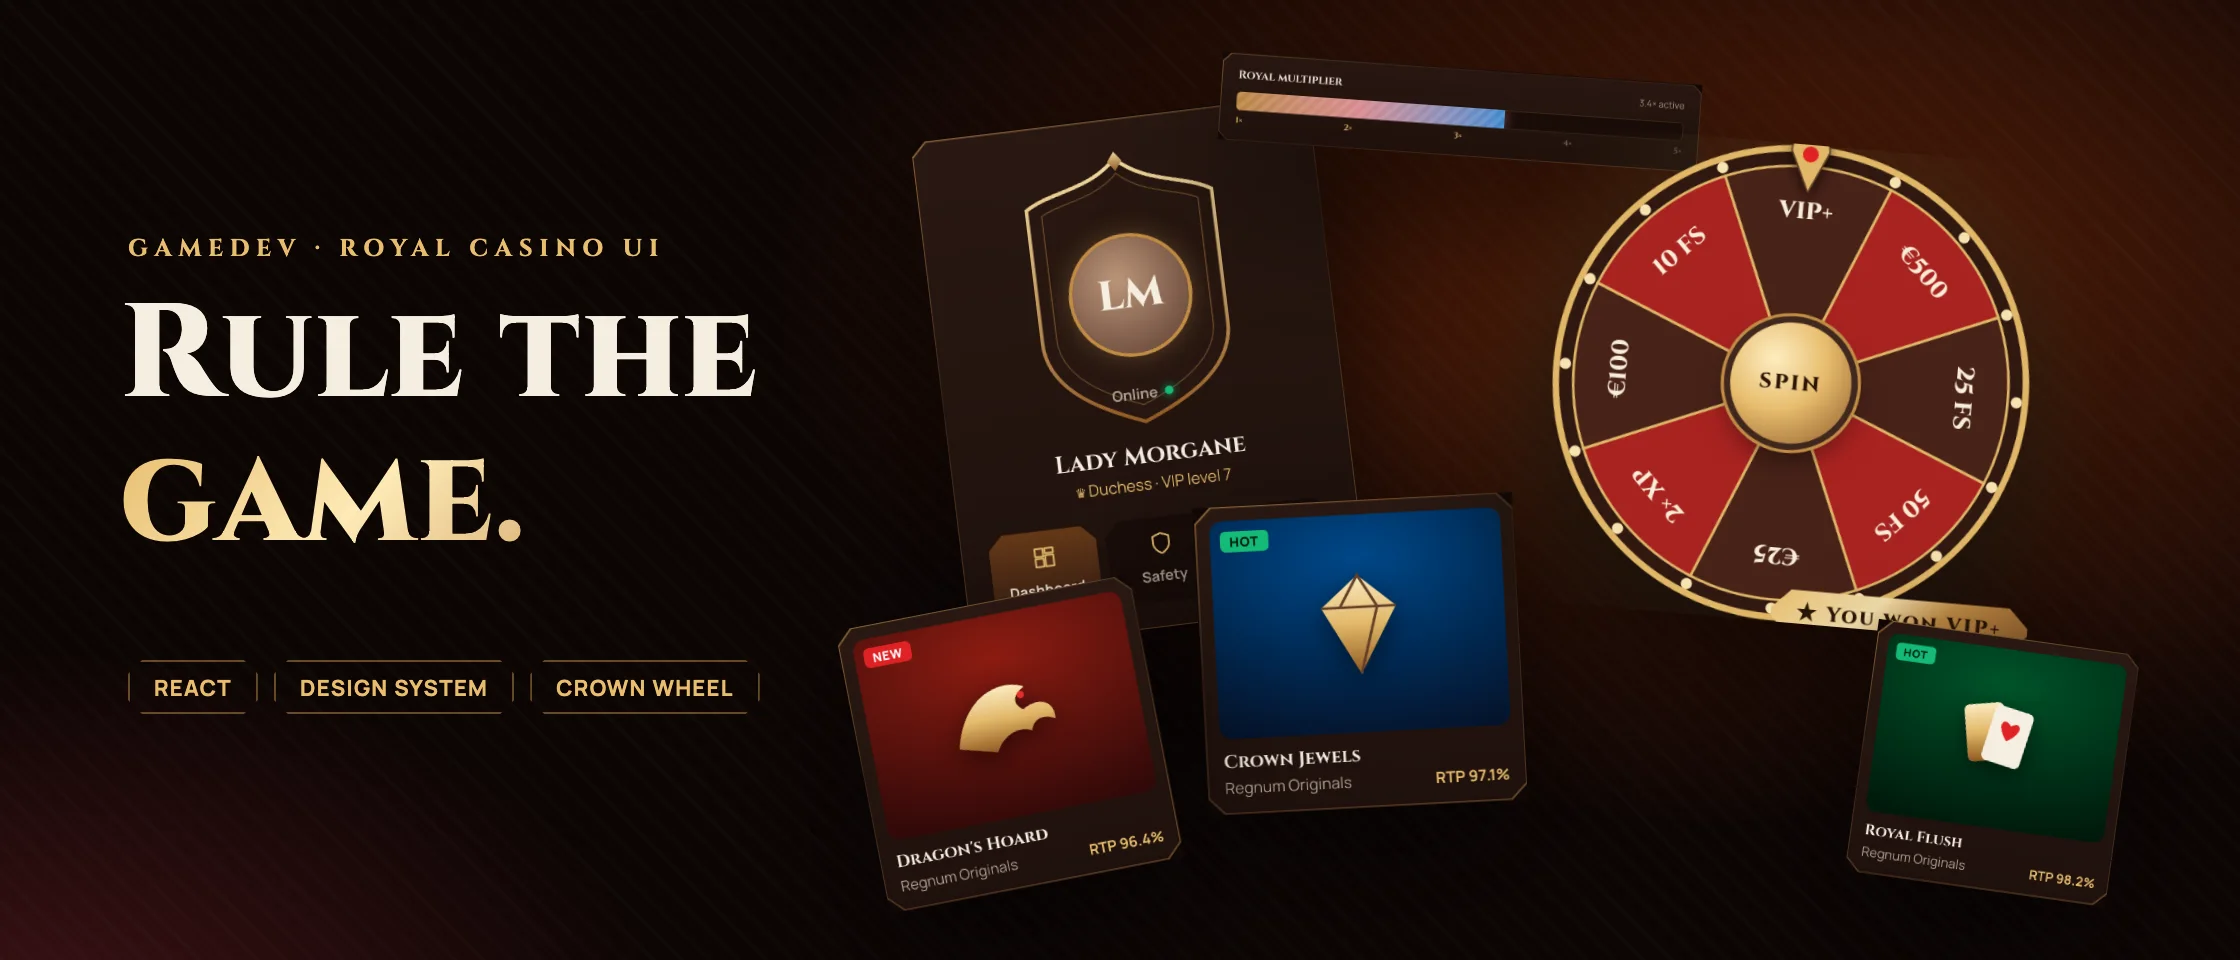
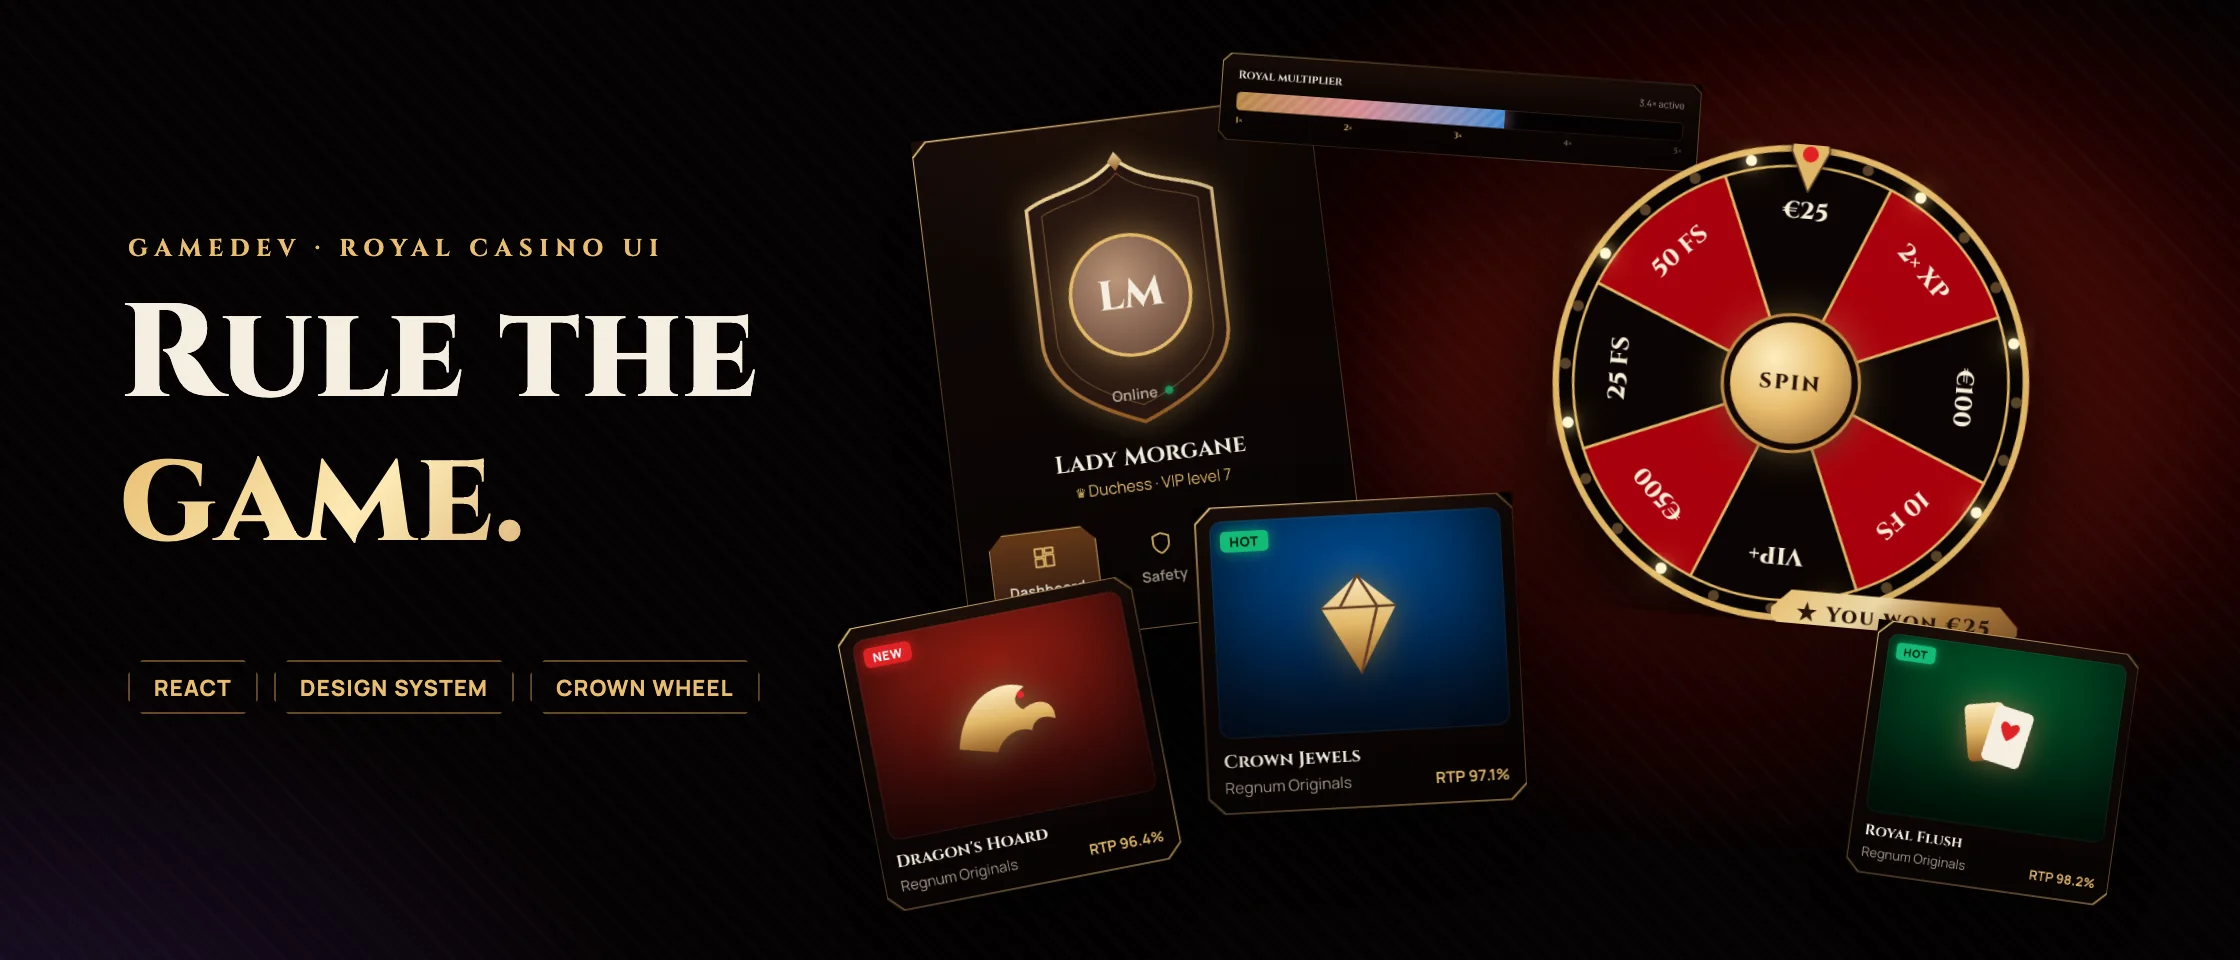
feat(regnum): 'expensive night' pass — near-black instead of brown, glows, light sweeps, wheel chase lights, gold dust
Elijah: 'looks like an old sofa'. Palette: cocoa-brown → near-black panels (oklch 8–15%), jewel-tone ambient light
(ruby/gold behind the hero, amethyst, emerald). Glows via an outer wrapper (a drop-shadow on the notched panel itself
gets clipped by its own clip-path): gold halo on frames, lit hero/profile, sheen sweeping over the hero, light
running across gem buttons, glowing badges, gold-lit numbers and headings, moving stripes on the multiplier,
pulsing avatar halo. Crown Wheel: black/ruby sectors, 24 bulbs with a chase light (faster while spinning).
Rising gold dust in the background. Covers rebuilt from the new look.

Claude-Session: https://claude.ai/code/session_01LctZPao52rXfXx1JX6znjV

diff --git a/public/demos/regnum/index.html b/public/demos/regnum/index.html
@@ -24,8 +24,8 @@
 /* Regnum — королевская дизайн-система кейса (своя, не общая с другими кейсами: README в ../_shared).
    Кожа: шоколадно-чёрный, золото, рубин→огонь на действиях, изумруд на «новом». Механика — ../_shared/motion.js. */
 :root{
-  --bg: oklch(14% 0.018 35);        --bg-2: oklch(17% 0.022 35);
-  --panel: oklch(19.5% 0.026 38);   --panel-2: oklch(23% 0.03 40);   --panel-hi: oklch(27% 0.035 42);
+  --bg: oklch(8.5% 0.012 30);       --bg-2: oklch(12% 0.014 32);
+  --panel: oklch(11.5% 0.012 35);   --panel-2: oklch(15% 0.016 38);  --panel-hi: oklch(20% 0.02 40);
   --ink: oklch(95% 0.02 85);        --muted: oklch(72% 0.03 70);     --faint: oklch(52% 0.03 60);
   --gold: oklch(82% 0.11 82);       --gold-2: oklch(68% 0.11 72);    --gold-deep: oklch(52% 0.09 62);
   --ruby: oklch(58% 0.22 27);       --fire: oklch(69% 0.2 45);       --rose: oklch(74% 0.1 15);
@@ -41,9 +41,13 @@ html{color-scheme:dark}
 body{margin:0; background:var(--bg); color:var(--ink); font:15px/1.5 var(--f-body); -webkit-font-smoothing:antialiased; overflow-x:hidden}
 body::before{content:''; position:fixed; inset:0; pointer-events:none; z-index:0;
   background:
-    radial-gradient(70vmax 45vmax at 85% -10%, oklch(30% 0.08 40 / .55), transparent 60%),
-    radial-gradient(50vmax 40vmax at -10% 110%, oklch(26% 0.07 20 / .5), transparent 60%),
-    repeating-linear-gradient(45deg, oklch(100% 0 0 / .012) 0 2px, transparent 2px 9px);}
+    radial-gradient(42vmax 30vmax at 70% 4%, oklch(55% 0.2 30 / .22), transparent 70%),
+    radial-gradient(36vmax 26vmax at 92% 22%, oklch(78% 0.13 80 / .14), transparent 70%),
+    radial-gradient(40vmax 30vmax at 4% 92%, oklch(50% 0.16 300 / .14), transparent 70%),
+    radial-gradient(34vmax 24vmax at 60% 100%, oklch(55% 0.13 160 / .10), transparent 70%);}
+body::after{content:''; position:fixed; inset:0; pointer-events:none; z-index:0; opacity:.5;
+  background-image:radial-gradient(oklch(100% 0 0 / .05) 1px, transparent 1.2px); background-size:26px 26px;
+  mask-image:radial-gradient(70% 70% at 50% 30%, #000, transparent)}
 a{color:inherit; text-decoration:none}
 button{font:inherit; color:inherit; background:none; border:0; cursor:pointer}
 #root{position:relative; z-index:1}
@@ -198,6 +202,67 @@ footer.foot{max-width:1360px; margin:0 auto; padding:0 22px 40px; display:flex; 
   .games{grid-template-columns:repeat(2,1fr)} .wallets{grid-template-columns:1fr} .stats{grid-template-columns:1fr 1fr}
   .stats .stat:first-child{grid-column:1 / -1} .logo{font-size:24px} .back{display:none}
 }
+
+/* ═════ v2 — «дорогая ночь»: темнее, свечения, блики (слово Элайджи: «как старый диван» → круто) ═════ */
+.ornw{position:relative; filter:drop-shadow(0 0 1px oklch(82% 0.11 82 / .35)) drop-shadow(0 10px 30px oklch(0% 0 0 / .7))}
+.ornw.lit{filter:drop-shadow(0 0 14px oklch(82% 0.11 82 / .22)) drop-shadow(0 0 40px oklch(60% 0.2 30 / .18)) drop-shadow(0 14px 34px oklch(0% 0 0 / .75))}
+.orn{background:linear-gradient(160deg, oklch(86% 0.1 85), oklch(42% 0.06 60) 32%, oklch(28% 0.03 50) 55%, oklch(72% 0.1 78) 100%)}
+.orn > .in{background:radial-gradient(120% 80% at 50% -10%, oklch(20% 0.03 45 / .9), transparent 60%), linear-gradient(180deg, var(--panel-2), var(--panel))}
+.orn.sheen::after{content:''; position:absolute; inset:0; pointer-events:none; clip-path:var(--notch);
+  background:linear-gradient(105deg, transparent 40%, oklch(95% 0.06 90 / .16) 50%, transparent 60%) no-repeat; background-size:250% 100%;
+  animation:sheen 6s var(--ease) infinite}
+@keyframes sheen{0%{background-position:150% 0} 55%,100%{background-position:-60% 0}}
+.logo{filter:drop-shadow(0 0 18px oklch(82% 0.11 82 / .35)) drop-shadow(0 2px 0 oklch(20% 0.04 40))}
+.gem{filter:drop-shadow(0 0 14px oklch(65% 0.22 35 / .55)) drop-shadow(0 6px 14px oklch(0% 0 0 / .6)); transition:filter .3s var(--ease)}
+.gem:hover{filter:drop-shadow(0 0 24px oklch(70% 0.22 40 / .85)) drop-shadow(0 6px 14px oklch(0% 0 0 / .6))}
+.gem.gold{filter:drop-shadow(0 0 14px oklch(82% 0.11 82 / .45))}
+.gem > span{position:relative; overflow:hidden}
+.gem > span::after{content:''; position:absolute; inset:0; background:linear-gradient(105deg, transparent 35%, oklch(100% 0 0 / .45) 50%, transparent 65%); transform:translateX(-120%); animation:gemsheen 3.6s var(--ease) infinite}
+@keyframes gemsheen{0%,55%{transform:translateX(-120%)} 85%,100%{transform:translateX(120%)}}
+.gem::before,.gem::after{box-shadow:0 0 10px oklch(80% 0.15 350 / .9)}
+.seg button.on{box-shadow:0 0 18px oklch(82% 0.11 82 / .45)}
+.nav a.on{background:linear-gradient(90deg, oklch(42% 0.11 60 / .55), transparent); box-shadow:inset 3px 0 0 var(--gold), inset 0 0 24px oklch(82% 0.11 82 / .08)}
+.nav a.on .ic{box-shadow:inset 0 0 0 1px var(--gold), 0 0 14px oklch(82% 0.11 82 / .55)}
+.badge{box-shadow:0 0 12px oklch(58% 0.22 27 / .8)} .badge.hot{box-shadow:0 0 12px oklch(70% 0.16 158 / .75)}
+.hero .in{background:
+  radial-gradient(60% 90% at 82% 40%, oklch(45% 0.2 30 / .45), transparent 65%),
+  radial-gradient(40% 60% at 82% 40%, oklch(80% 0.12 80 / .18), transparent 70%),
+  radial-gradient(70% 100% at 0% 0%, oklch(25% 0.06 300 / .35), transparent 60%), var(--panel)}
+.hero h1{text-shadow:0 0 30px oklch(82% 0.11 82 / .18)}
+.hero h1 b{filter:drop-shadow(0 0 16px oklch(82% 0.11 82 / .5))}
+.stat .v{filter:drop-shadow(0 0 12px oklch(82% 0.11 82 / .45))}
+.stat .d{text-shadow:0 0 10px oklch(70% 0.16 158 / .6)}
+.fill{box-shadow:0 0 22px oklch(74% 0.12 15 / .7), 0 0 40px oklch(64% 0.14 250 / .45)}
+.fill::after{animation:stripes 1.2s linear infinite; background-size:17px 17px}
+@keyframes stripes{to{background-position:17px 0}}
+.track{background:oklch(7% 0.01 30)}
+.vip .bar i{box-shadow:0 0 14px oklch(82% 0.11 82 / .7)}
+.ava{animation:halo 3.2s ease-in-out infinite}
+@keyframes halo{0%,100%{box-shadow:0 0 0 3px var(--gold-2), 0 0 22px oklch(82% 0.11 82 / .35)} 50%{box-shadow:0 0 0 3px var(--gold), 0 0 40px oklch(82% 0.11 82 / .7)}}
+.frame svg{filter:drop-shadow(0 0 14px oklch(82% 0.11 82 / .35))}
+.online::after{animation:blink 1.6s ease-in-out infinite} @keyframes blink{50%{opacity:.35}}
+.ptabs button.on{box-shadow:inset 0 0 0 1px oklch(82% 0.11 82 / .6), 0 0 18px oklch(82% 0.11 82 / .25)}
+.wallet .glow{opacity:.55; filter:blur(36px)}
+.wallet .coin{box-shadow:0 0 18px currentColor}
+.art{box-shadow:inset 0 0 0 1px oklch(100% 0 0 / .06), inset 0 -40px 60px oklch(0% 0 0 / .45)}
+.art svg{filter:drop-shadow(0 0 14px oklch(82% 0.11 82 / .55)) drop-shadow(0 6px 10px oklch(0% 0 0 / .6)); transition:transform .5s var(--ease)}
+.game:hover .art svg{transform:scale(1.08) translateY(-3px)}
+.game .ornw{transition:filter .35s var(--ease)}
+.game:hover .ornw{filter:drop-shadow(0 0 16px oklch(82% 0.11 82 / .45)) drop-shadow(0 14px 30px oklch(0% 0 0 / .75))}
+.sec-head h2{background:var(--gold-grad); -webkit-background-clip:text; background-clip:text; color:transparent; filter:drop-shadow(0 0 12px oklch(82% 0.11 82 / .35))}
+.diamond{box-shadow:0 0 12px oklch(82% 0.11 82 / .9)}
+.ticker .t b{text-shadow:0 0 10px oklch(82% 0.11 82 / .6)}
+/* колесо: светящийся обод и бегущие огни */
+.wheel{filter:drop-shadow(0 0 30px oklch(82% 0.11 82 / .35)) drop-shadow(0 0 70px oklch(60% 0.22 30 / .35)) drop-shadow(0 18px 30px oklch(0% 0 0 / .7))}
+.bulb{fill:oklch(40% 0.05 70); transition:fill .12s}
+.bulb.on{fill:oklch(98% 0.05 92); filter:drop-shadow(0 0 3px oklch(95% 0.1 88)) drop-shadow(0 0 7px oklch(85% 0.14 80))}
+.spin-btn{box-shadow:0 0 0 4px oklch(15% 0.02 40), 0 0 0 6px var(--gold-2), 0 0 30px oklch(82% 0.11 82 / .6), 0 8px 18px oklch(0% 0 0 / .6)}
+.win{filter:drop-shadow(0 0 16px oklch(82% 0.11 82 / .7))}
+/* золотая пыль */
+.dust{position:fixed; inset:0; pointer-events:none; z-index:0; overflow:hidden}
+.dust i{position:absolute; bottom:-10px; width:3px; height:3px; border-radius:50%; background:oklch(90% 0.1 85); box-shadow:0 0 8px oklch(85% 0.12 82);
+  opacity:0; animation:rise linear infinite}
+@keyframes rise{0%{transform:translateY(0) translateX(0); opacity:0} 10%{opacity:.8} 90%{opacity:.5} 100%{transform:translateY(-105vh) translateX(30px); opacity:0}}
 @media (prefers-reduced-motion: reduce){ *{animation:none !important; transition:none !important} }
 </style>
 </head>
@@ -255,7 +320,7 @@ const GAMES = [
 const art = (g) => ({ background: `radial-gradient(120% 90% at 50% 20%, ${g.bg[0]}, ${g.bg[1]})` });
 
 // ── компоненты ──
-const Orn = ({ className = '', flat, children, style }) => html`<div class=${'orn ' + (flat ? 'flat ' : '') + className} style=${style}><div class="in">${children}</div></div>`;
+const Orn = ({ className = '', flat, lit, sheen, children, style }) => html`<div class=${'ornw ' + (lit ? 'lit ' : '') + className} style=${style}><div class=${'orn' + (flat ? ' flat' : '') + (sheen ? ' sheen' : '')}><div class="in">${children}</div></div></div>`;
 
 function Top() {
   const [tab, setTab] = useState('casino');
@@ -286,6 +351,8 @@ const PRIZES = ['50 FS', '€25', '2× XP', '€100', '10 FS', 'VIP+', '€500',
 function CrownWheel() {
   const ref = useRef(null), rot = useRef(0);
   const [spinning, setSpinning] = useState(false), [win, setWin] = useState(null);
+  const [chase, setChase] = useState(0);                     // бегущие огни по ободу: быстрее, пока крутится
+  React.useEffect(() => { const t = setInterval(() => setChase((c) => (c + 1) % 3), spinning ? 70 : 260); return () => clearInterval(t); }, [spinning]);
   const seg = 360 / PRIZES.length;
   function spin() {
     if (spinning) return;
@@ -299,21 +366,21 @@ function CrownWheel() {
     const a0 = (i * seg - 90) * Math.PI / 180, a1 = ((i + 1) * seg - 90) * Math.PI / 180;
     const d = `M110 110 L${110 + R * Math.cos(a0)} ${110 + R * Math.sin(a0)} A${R} ${R} 0 0 1 ${110 + R * Math.cos(a1)} ${110 + R * Math.sin(a1)} Z`;
     const mid = (i + 0.5) * seg;
-    return html`<g key=${p}><path d=${d} fill=${i % 2 ? 'oklch(30% 0.06 35)' : 'oklch(48% 0.17 27)'} stroke="oklch(80% 0.11 82)" stroke-width="1.2"/>
+    return html`<g key=${p}><path d=${d} fill=${i % 2 ? 'oklch(12% 0.015 30)' : 'oklch(46% 0.19 27)'} stroke="oklch(80% 0.11 82)" stroke-width="1.2"/>
       <text x="110" y="34" transform=${`rotate(${mid} 110 110)`} text-anchor="middle" font-family="Cinzel" font-weight="800" font-size="11" fill="oklch(95% 0.03 85)">${p}</text></g>`;
   });
   return html`<div class="wheel-wrap">
     <svg class="pointer" viewBox="0 0 30 36"><path d="M15 36 L3 10 A12 12 0 1 1 27 10 Z" fill="oklch(80% 0.11 82)" stroke="oklch(40% 0.06 55)"/><circle cx="15" cy="12" r="5" fill="oklch(58% 0.22 27)"/></svg>
-    <svg class="wheel" viewBox="0 0 220 220"><circle cx="110" cy="110" r="108" fill="oklch(24% 0.04 40)" stroke="oklch(80% 0.11 82)" stroke-width="3"/>
+    <svg class="wheel" viewBox="0 0 220 220"><circle cx="110" cy="110" r="108" fill="oklch(10% 0.012 30)" stroke="oklch(80% 0.11 82)" stroke-width="3"/>
       <g ref=${ref} style=${{ transformOrigin: '110px 110px' }}>${sectors}</g>
-      ${Array.from({ length: 16 }, (_, i) => { const a = i * 22.5 * Math.PI / 180; return html`<circle key=${i} cx=${110 + 104 * Math.cos(a)} cy=${110 + 104 * Math.sin(a)} r="2.6" fill="oklch(92% 0.07 90)"/>`; })}</svg>
+      ${Array.from({ length: 24 }, (_, i) => { const a = i * 15 * Math.PI / 180; return html`<circle key=${i} class=${'bulb' + ((i + chase) % 3 === 0 ? ' on' : '')} cx=${110 + 104 * Math.cos(a)} cy=${110 + 104 * Math.sin(a)} r="2.6"/>`; })}</svg>
     <button class="spin-btn" onClick=${spin} disabled=${spinning}>${spinning ? '…' : 'SPIN'}</button>
     ${win && html`<${motion.div} class="win" initial=${{ opacity: 0, y: 8, scale: 0.9 }} animate=${{ opacity: 1, y: 0, scale: 1 }}>★ You won ${win}<//>`}
   </div>`;
 }
 
 function Hero() {
-  return html`<${Orn} className="hero"><div>
+  return html`<${Orn} className="hero" lit sheen><div>
       <div class="eyebrow">Welcome to the court</div>
       <h1>100% up to <b>€500</b><br/>+ 200 free spins</h1>
       <p>Claim the throne bonus on your first deposit — and spin the Crown Wheel for one more royal gift.</p>
@@ -327,7 +394,7 @@ const Ticker = () => html`<${VelocityMarquee} className="ticker" baseSpeed=${3.2
 
 function Profile() {
   const [tab, setTab] = useState('dash');
-  return html`<${Orn} className="profile">
+  return html`<${Orn} className="profile" lit>
     <div class="frame"><svg viewBox="0 0 190 230"><defs><linearGradient id="fg" x1="0" y1="0" x2="0" y2="1"><stop offset="0" stop-color="oklch(90% 0.08 88)"/><stop offset="1" stop-color="oklch(52% 0.1 62)"/></linearGradient></defs>
       <path d="M95 6 C 120 30, 150 26, 172 40 V150 C 172 190, 130 210, 95 224 C 60 210, 18 190, 18 150 V40 C 40 26, 70 30, 95 6 Z" fill="oklch(22% 0.03 38)" stroke="url(#fg)" stroke-width="3"/>
       <path d="M95 18 C 116 38, 142 36, 160 46 V148 C 160 180, 126 198, 95 210 C 64 198, 30 180, 30 148 V46 C 48 36, 74 38, 95 18 Z" fill="none" stroke="oklch(60% 0.09 70 / .5)" stroke-width="1"/>
@@ -361,7 +428,9 @@ const Games = () => html`<div class="games">${GAMES.map((g, i) => html`<${Reveal
 const Section = ({ title, children }) => html`<${Reveal}><div class="sec-head"><span class="diamond"></span><h2>${title}</h2><span class="line"></span></div><//>${children}`;
 
 function App() {
+  const dust = React.useMemo(() => Array.from({ length: 26 }, (_, i) => ({ left: (i * 37) % 100, d: 9 + (i * 7) % 11, delay: -((i * 13) % 20), s: 1 + (i % 3) })), []);
   return html`<${React.Fragment}>
+    <div class="dust" aria-hidden="true">${dust.map((x, i) => html`<i key=${i} style=${{ left: x.left + '%', width: x.s * 2 + 'px', height: x.s * 2 + 'px', animationDuration: x.d + 's', animationDelay: x.delay + 's' }}></i>`)}</div>
     <div class="app">
       <${Top}/>
       <${Side}/>
